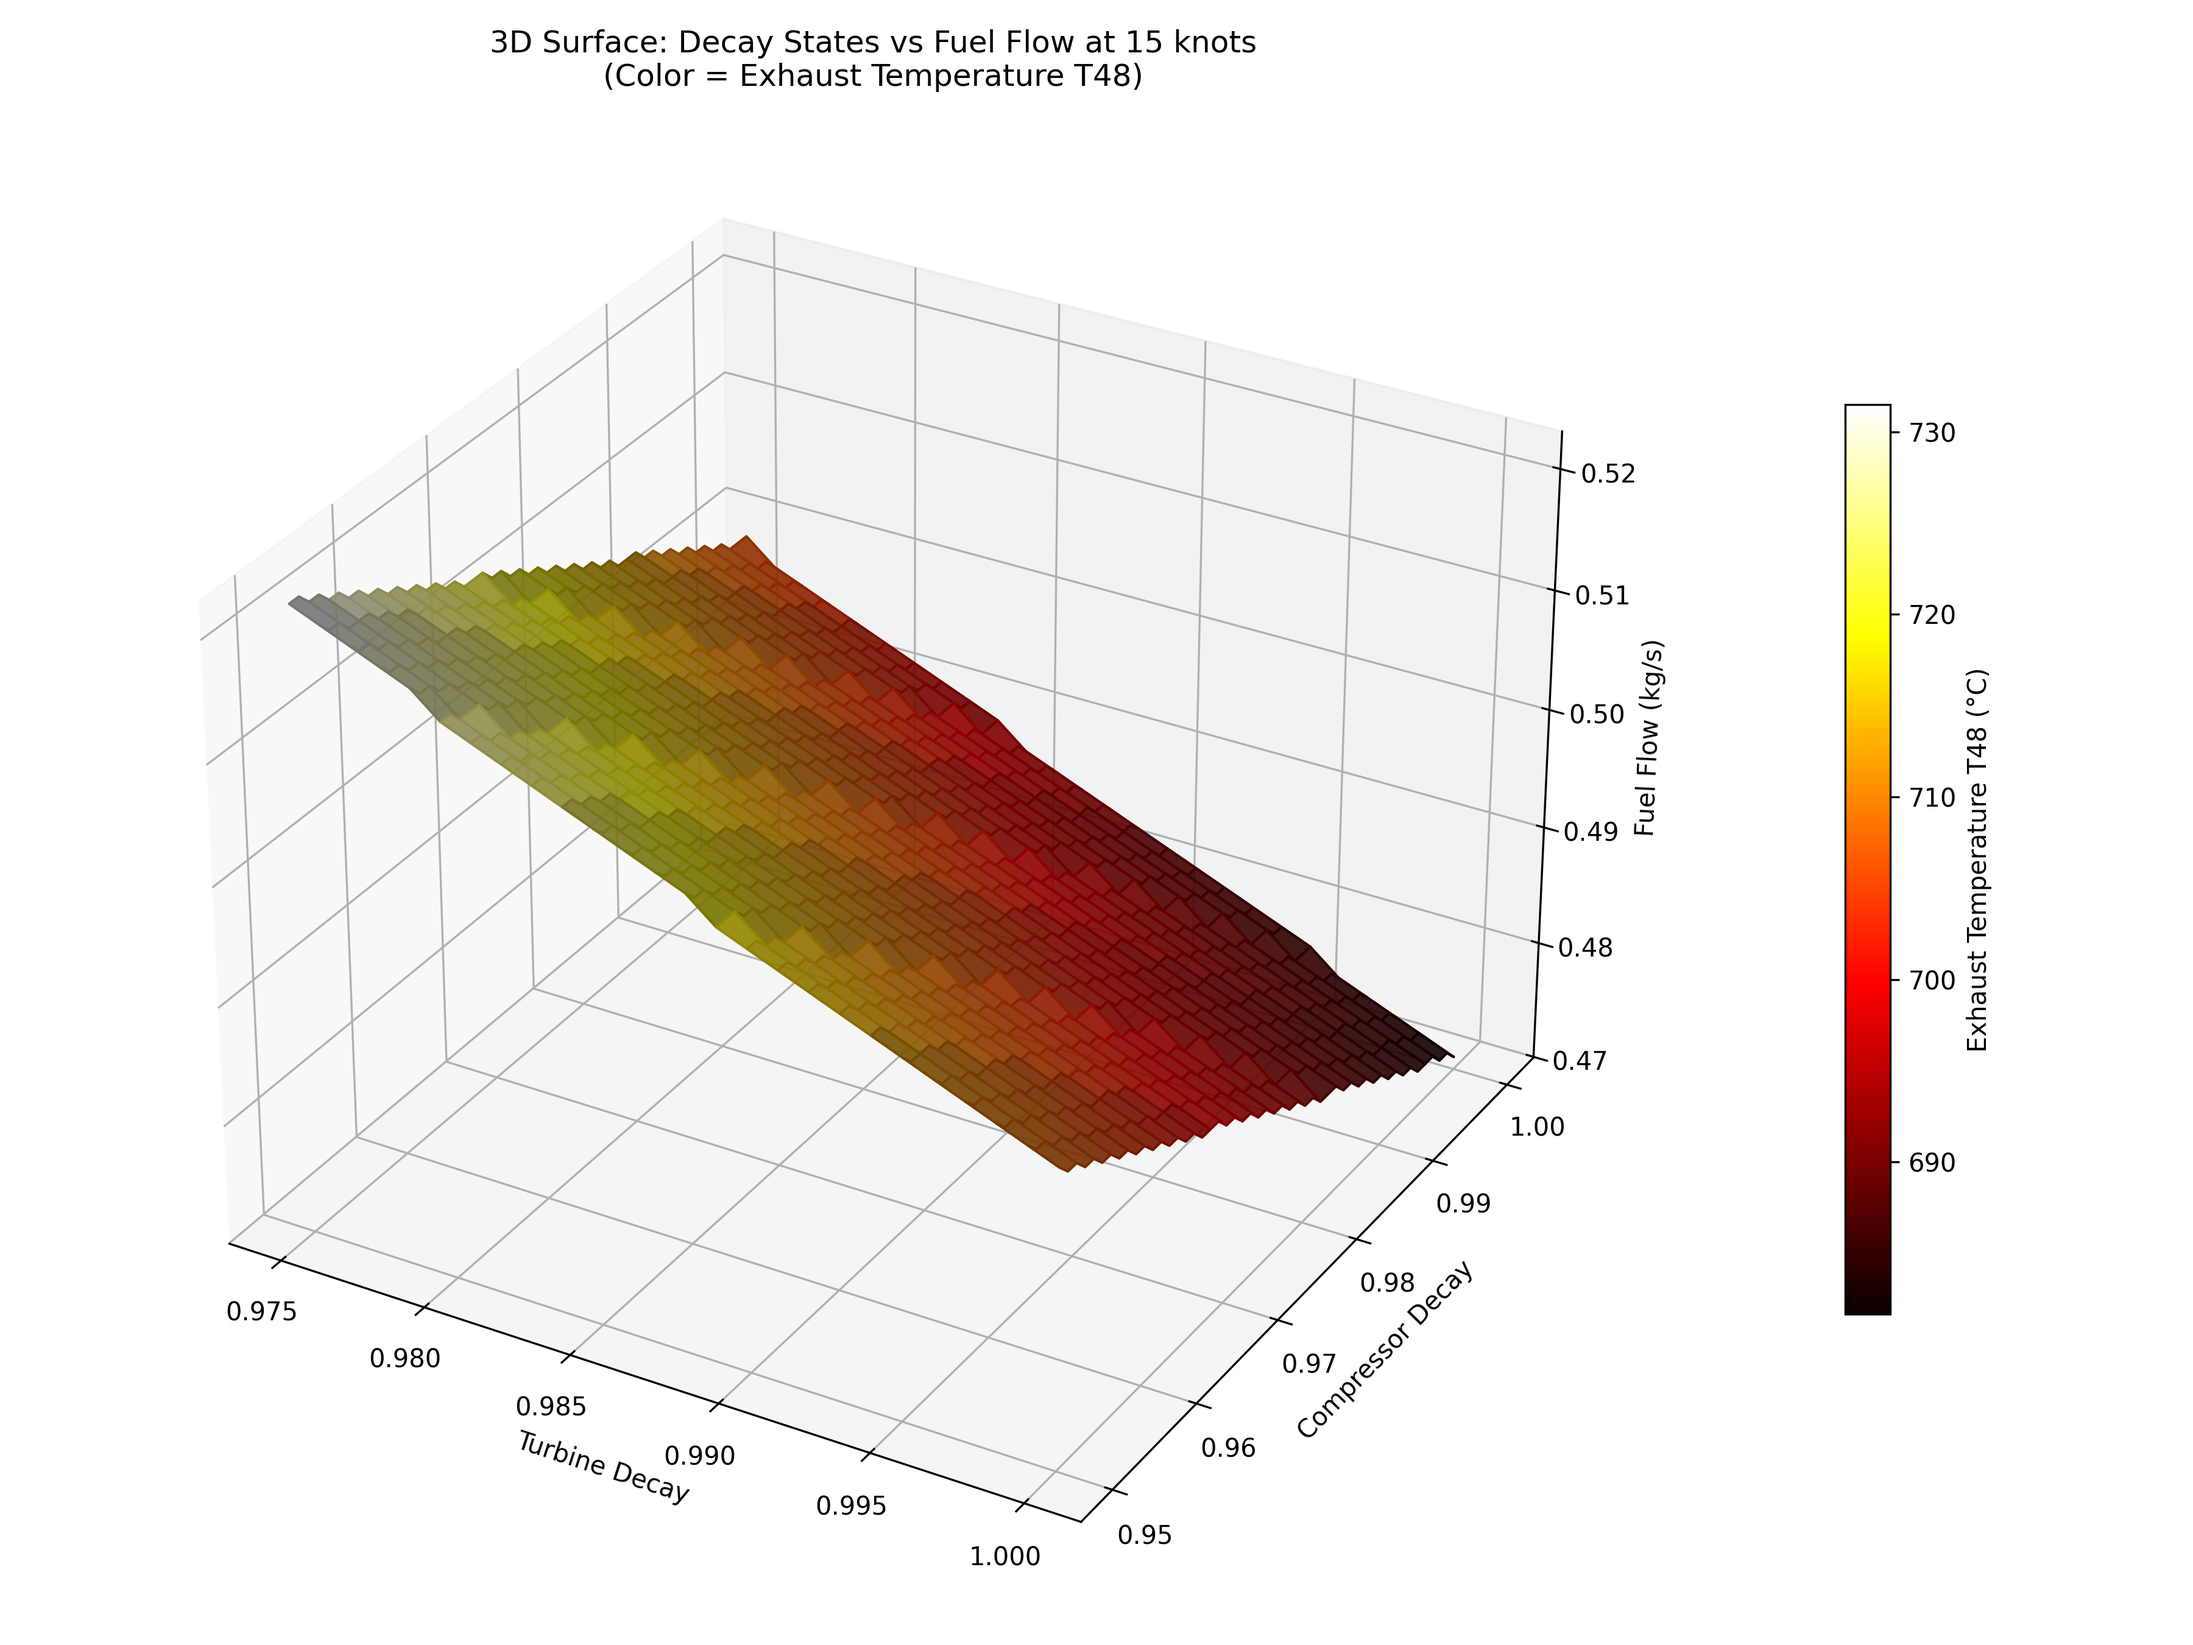
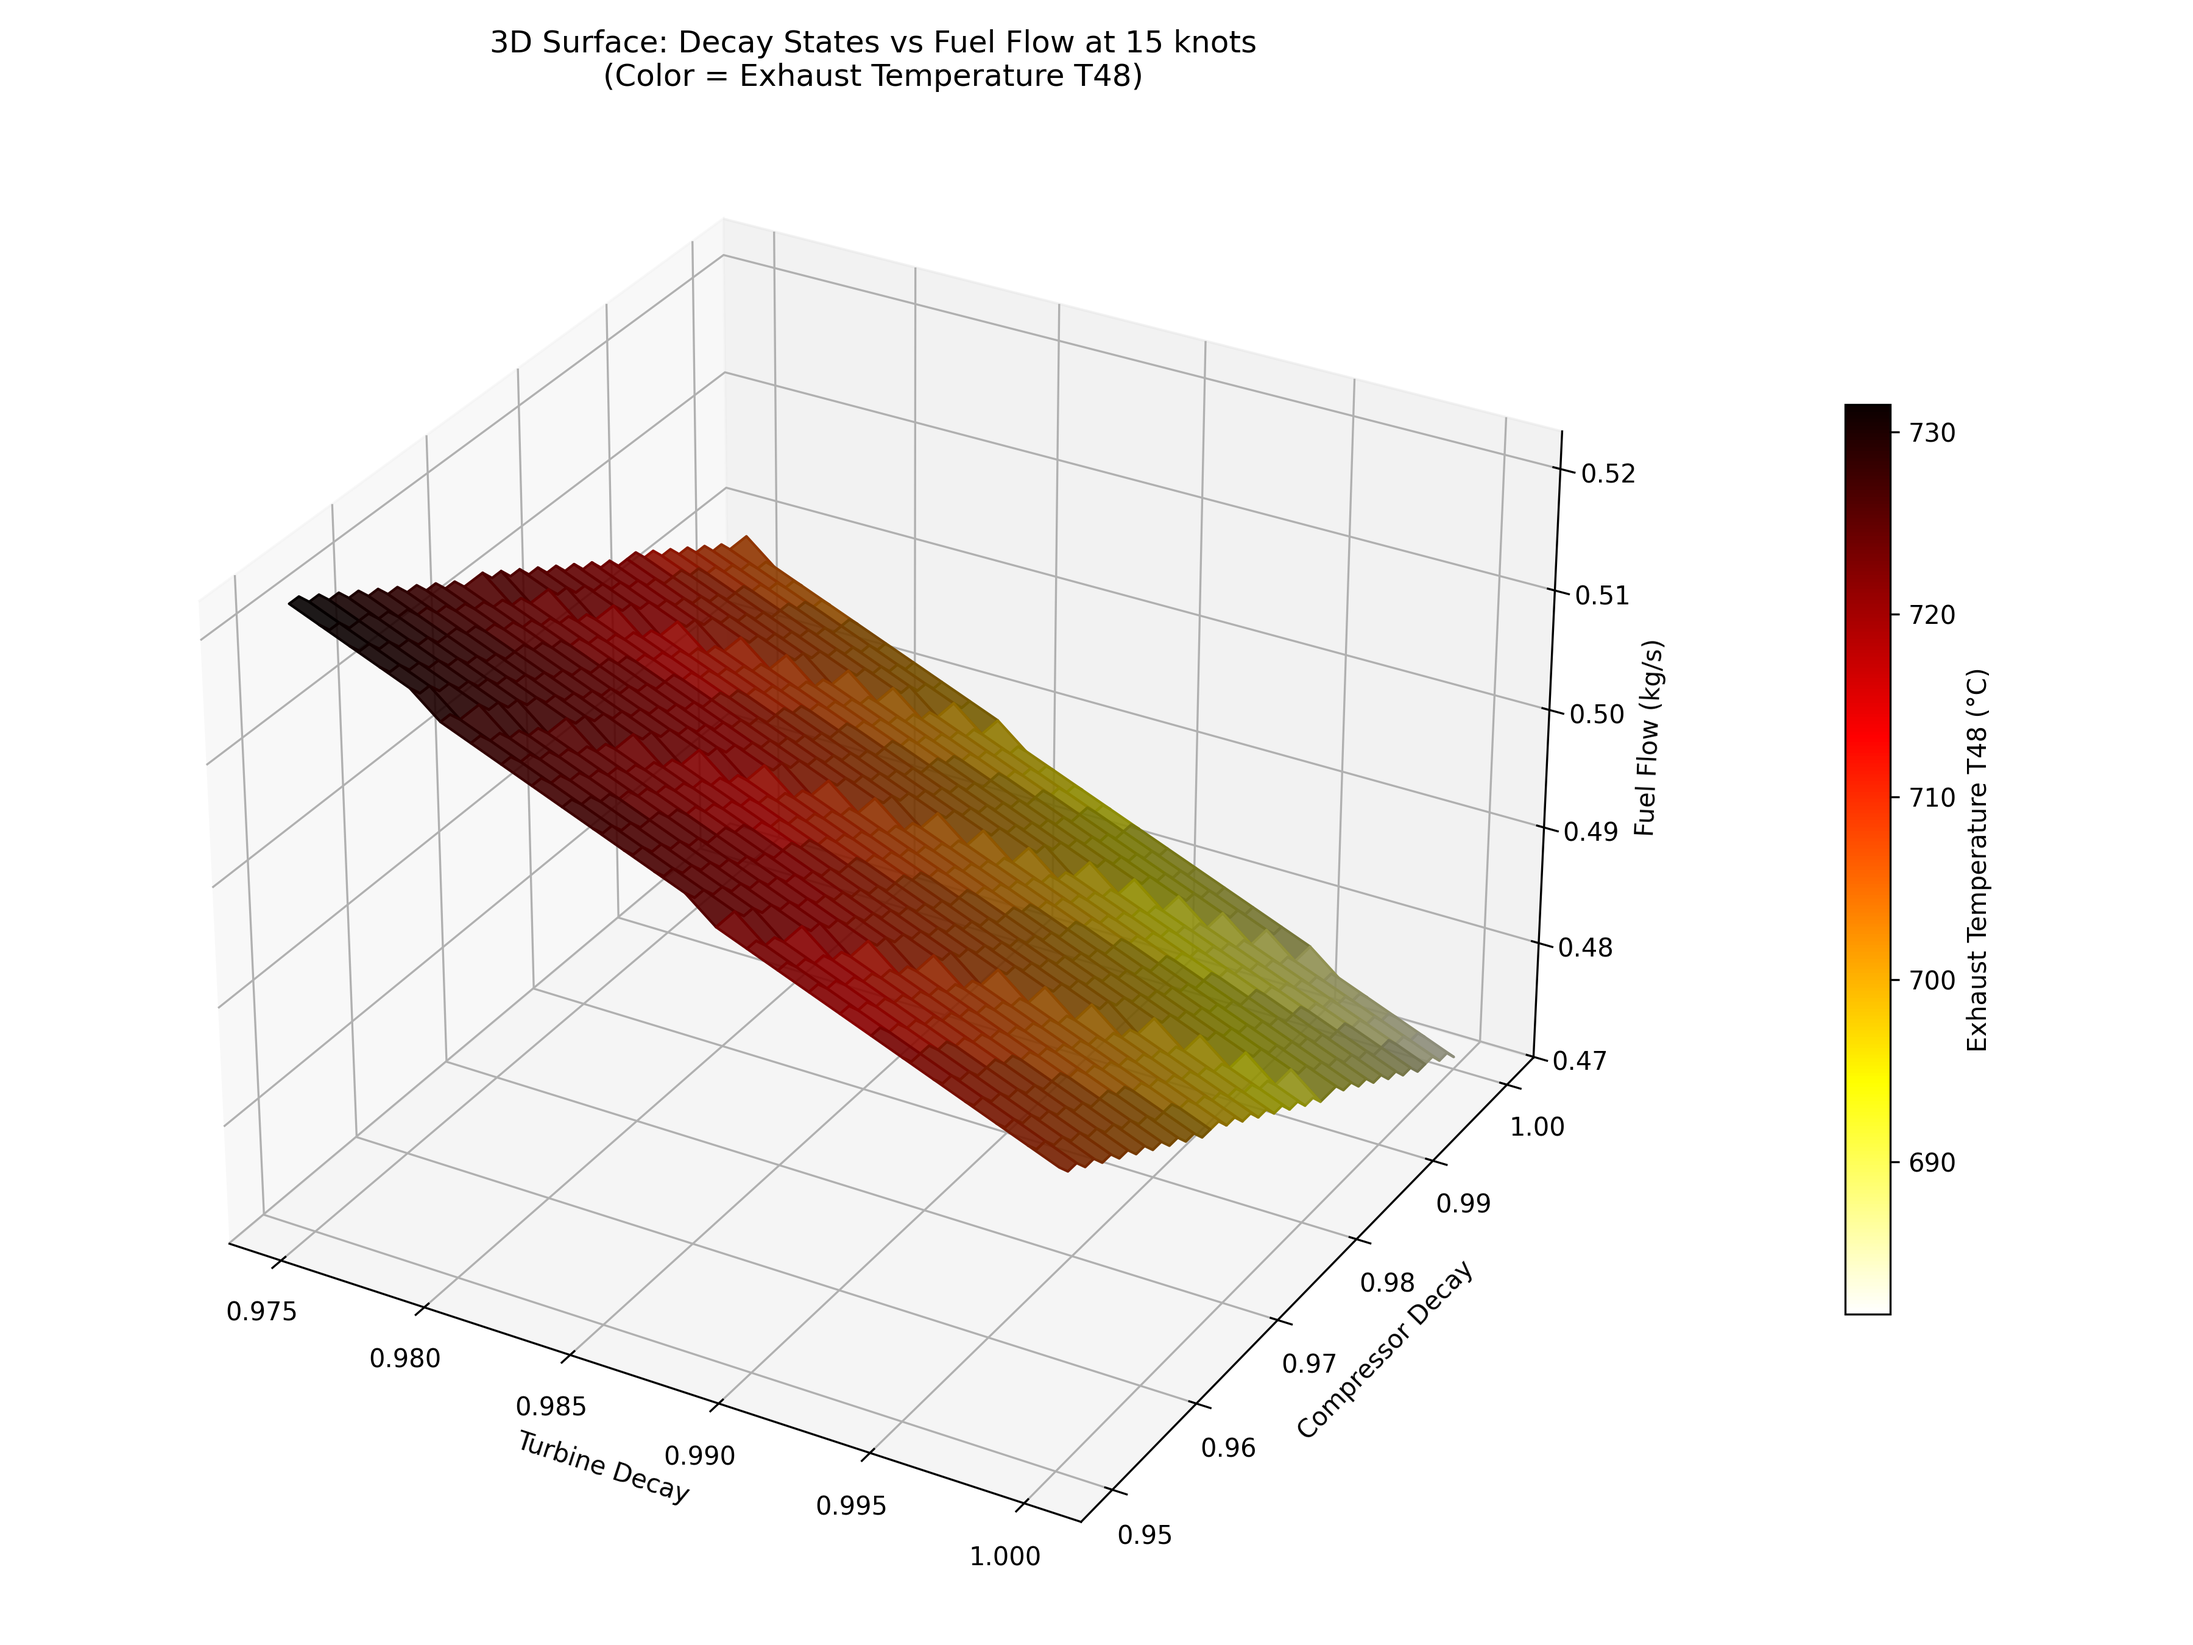
tttt

Changed region(s): [[0.1244, 0.3111, 0.6533, 0.7156], [0.84, 0.2489, 0.8711, 0.8089]]

diff --git a/Presentation/generate_plots.py b/Presentation/generate_plots.py
@@ -263,7 +263,7 @@ def plot_3d_speed_fuel_decay(df):
 
     # Normalize temperature for color mapping
     norm = Normalize(vmin=temp_pivot.values.min(), vmax=temp_pivot.values.max())
-    colors = cm.hot(norm(temp_pivot.values))
+    colors = cm.hot_r(norm(temp_pivot.values))
 
     # Plot surface
     surf = ax.plot_surface(X, Y, Z, facecolors=colors, alpha=0.9, shade=True)
@@ -274,7 +274,7 @@ def plot_3d_speed_fuel_decay(df):
     ax.set_title('3D Surface: Decay States vs Fuel Flow at 15 knots\n(Color = Exhaust Temperature T48)')
 
     # Add colorbar
-    mappable = cm.ScalarMappable(norm=norm, cmap='hot')
+    mappable = cm.ScalarMappable(norm=norm, cmap='hot_r')
     mappable.set_array(temp_pivot.values)
     cbar = fig.colorbar(mappable, ax=ax, shrink=0.6, pad=0.1)
     cbar.set_label('Exhaust Temperature T48 (°C)')
